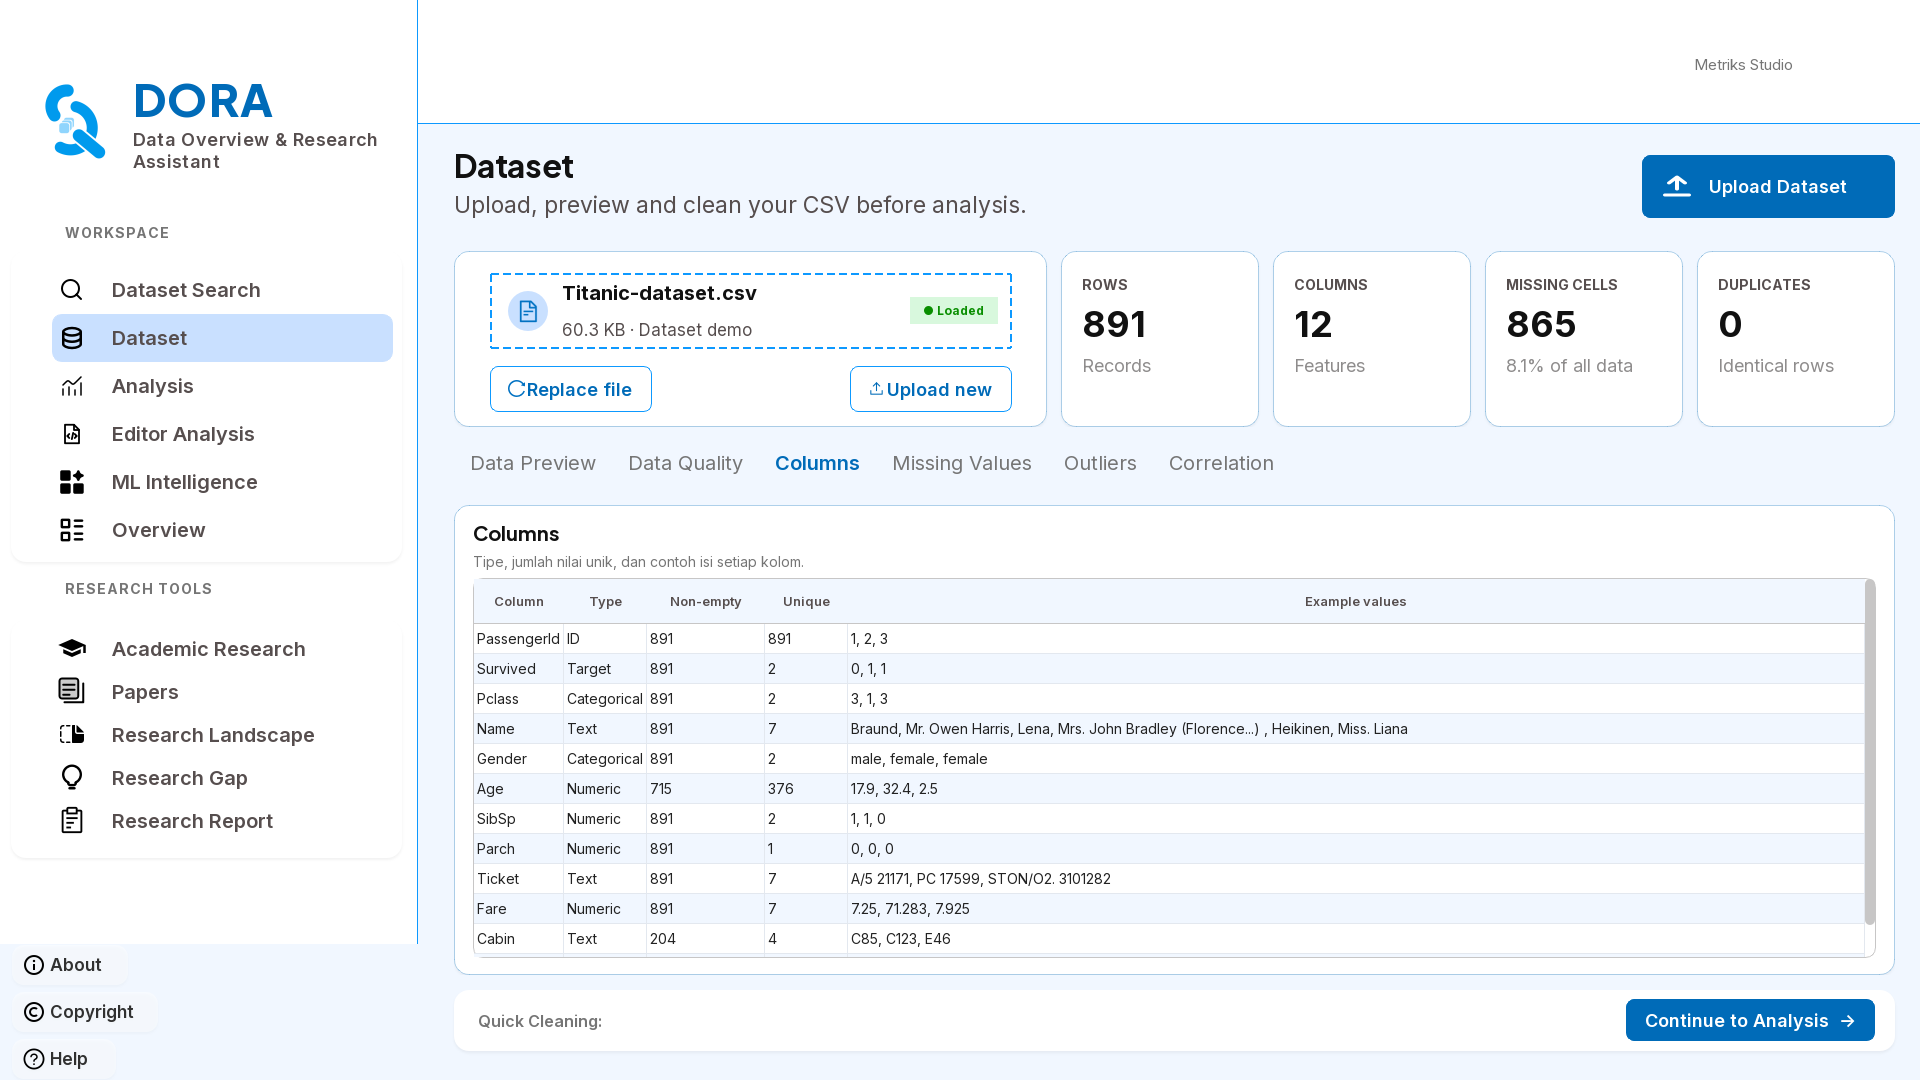
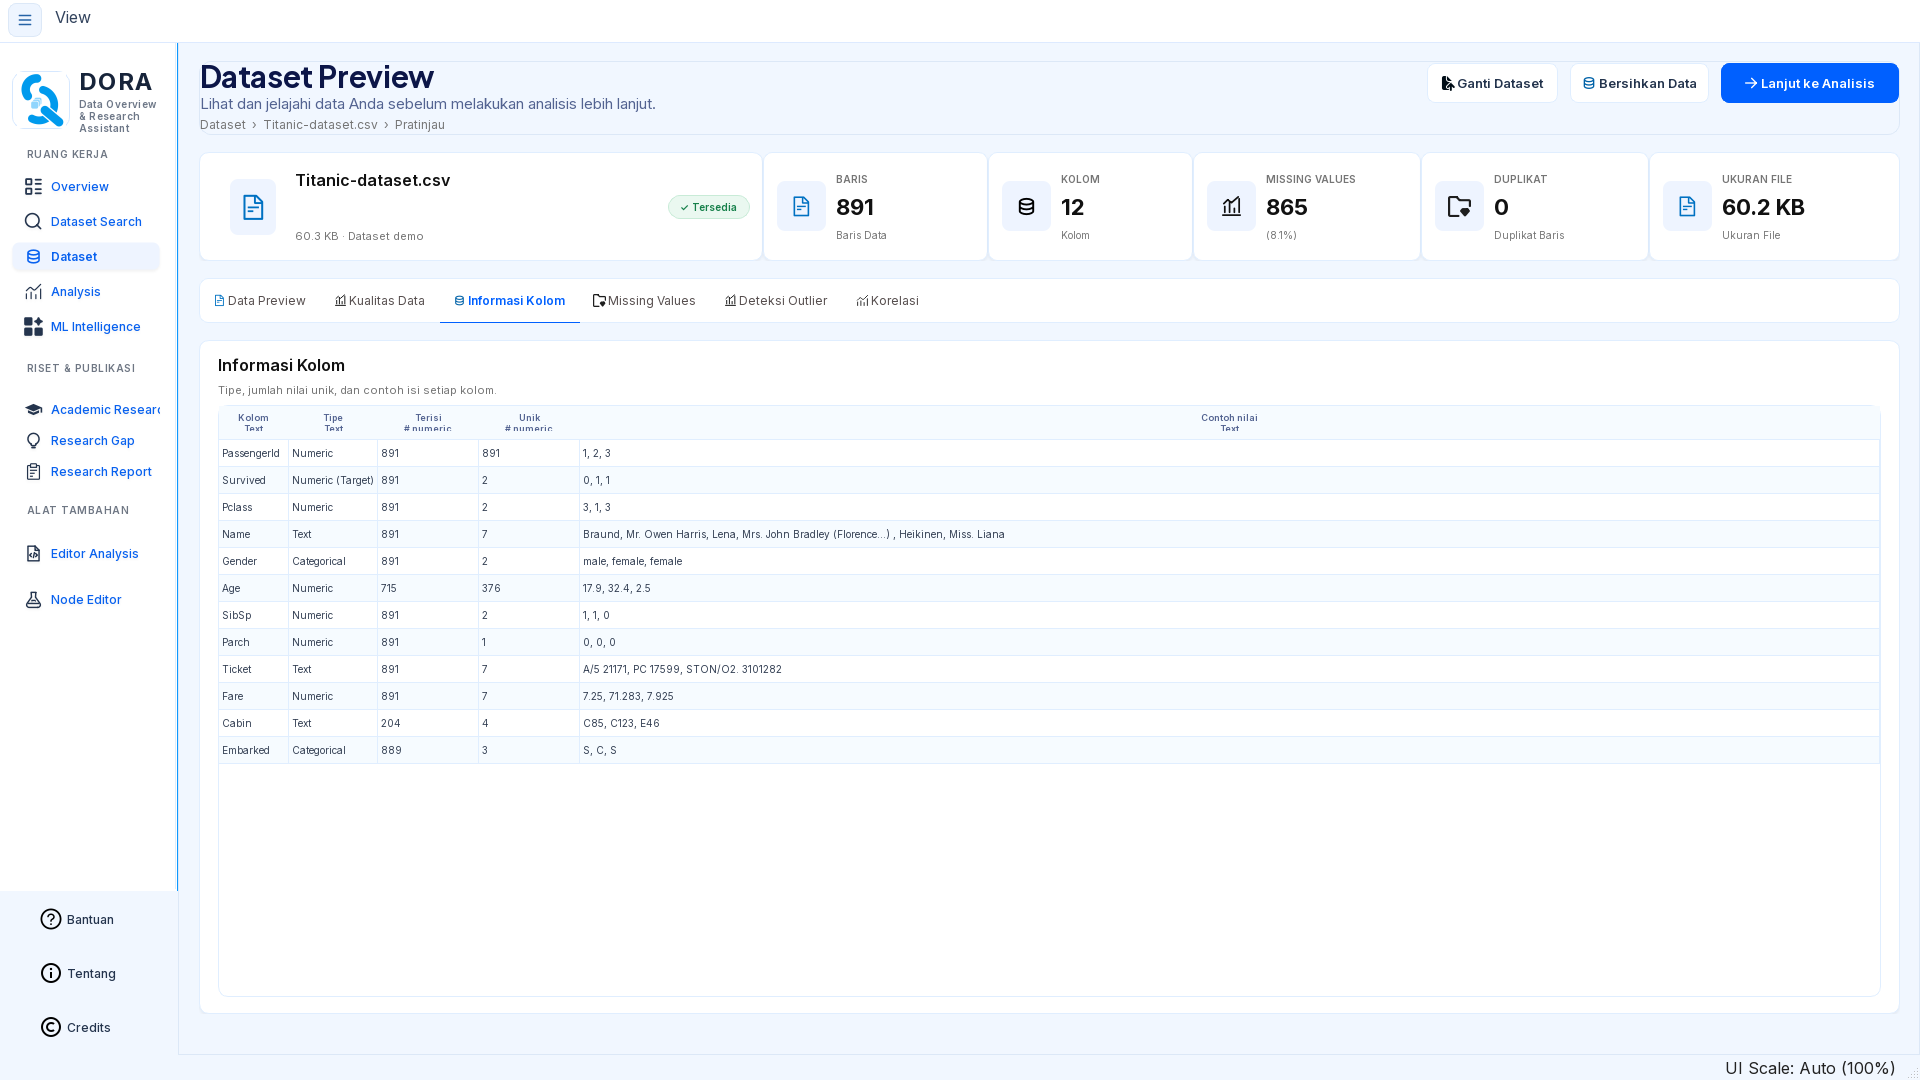
feat(screenshots): update all 21 screenshot assets captured directly from live DORA v6.0.0 desktop app

diff --git a/src/config/product.config.ts b/src/config/product.config.ts
@@ -211,16 +211,32 @@ export const productConfig: ProductConfig = {
       id: 'preview-overview',
       title: 'Overview & Pipeline Workspace (v6.0)',
       caption:
-        'Dashboard ringkasan v6.0.0 dengan tata letak dan skala tipografi yang lebih konsisten. Menampilkan temuan utama, progres 7 tahapan Research Pipeline, kartu status Dataset, skor Data Quality, dan rekomendasi ML Intelligence.',
+        'Dashboard ringkasan v6.0.0 dengan tata letak baru yang menampilkan kartu status kesiapan dataset aktif (Titanic-dataset.csv), alur 5 langkah kerja terpadu, fitur utama DORA, serta pintasan langsung ke Analisis dan ML Intelligence.',
       aspectRatio: '16/10',
       badge: 'Dashboard v6.0',
       imageSrc: '/screenshots/overview.png',
       tag: 'Overview',
       details: [
         'Tata Letak & Tipografi v6.0 Konsisten',
-        'Research Pipeline 7 Tahapan Terpadu',
-        'Ringkasan Kesiapan Data & Model ML',
-        'Pintasan Cepat ke Research Report',
+        'Status Dataset Aktif & Langkah Berikutnya',
+        'Alur Kerja 5 Tahapan Terpadu',
+        'Navigasi 16 Rute & Skala UI Otomatis',
+      ],
+    },
+    {
+      id: 'preview-dataset-search',
+      title: 'Dataset Search (Kaggle & Hugging Face)',
+      caption:
+        'Pencarian dataset publik berdasarkan kata kunci dari Kaggle, Hugging Face, atau mode gabungan All providers, dengan fitur unduh langsung ke workspace lokal DORA.',
+      aspectRatio: '16/10',
+      badge: 'Dataset Search',
+      imageSrc: '/screenshots/dataset-search.png',
+      tag: 'Search',
+      details: [
+        'Pencarian Katalog Kaggle & Hugging Face',
+        'Pilihan Filter Provider & All Providers',
+        'Unduh Langsung ke Workspace Lokal DORA',
+        'Terintegrasi dengan Alur Analisis Dataset',
       ],
     },
     {
@@ -289,11 +305,11 @@ export const productConfig: ProductConfig = {
     },
     {
       id: 'preview-editor',
-      title: 'Editor Analysis, Node Editor & Kernel PyPI',
+      title: 'Editor Analysis & Kernel PyPI (v6.0)',
       caption:
         'Ruang kerja Editor Analysis bergaya notebook dengan 6 tahapan analisis, dukungan instalasi library PyPI, manajemen kernel Python lokal yang diperkuat di v6.0.0, serta akses ke menu Node Editor di sidebar Alat Tambahan.',
       aspectRatio: '16/10',
-      badge: 'Editor & Node Tools',
+      badge: 'Editor Notebook',
       imageSrc: '/screenshots/editor-analysis.png',
       tag: 'Editor Python',
       details: [
@@ -301,6 +317,22 @@ export const productConfig: ProductConfig = {
         'Menu Alat Tambahan: Editor Analysis & Node Editor',
         'Instalasi Paket PyPI & Dukungan .ipynb',
         'Penanganan Event Qt & Kernel Diperkuat (v6.0)',
+      ],
+    },
+    {
+      id: 'preview-node-editor',
+      title: 'Visual Node Editor & ML Graph Engine (v6.0)',
+      caption:
+        'Kanvas Node Editor v6.0.0 untuk merancang alur kerja Machine Learning secara visual dengan port berwarna (data, estimator, model, metrik), deteksi task otomatis, inspektor parameter, dan tabel ringkasan metrik evaluasi.',
+      aspectRatio: '16/10',
+      badge: 'Baru di v6.0',
+      imageSrc: '/screenshots/node-editor.png',
+      tag: 'Node Editor',
+      details: [
+        'Kanvas Visual Drag-and-Drop & Port Berwarna',
+        'Deteksi Task Otomatis & Template Dinamis',
+        'Background Worker & Cache Analisis Dataset',
+        'Ekspor 5 Format (.py, .ipynb, .pkl, .csv, .zip)',
       ],
     },
     {
@@ -320,58 +352,58 @@ export const productConfig: ProductConfig = {
       ],
     },
     {
-      id: 'preview-dataset-search',
-      title: 'Dataset Search (Kaggle & Hugging Face)',
-      caption:
-        'Pencarian dataset publik berdasarkan kata kunci dari Kaggle, Hugging Face, atau mode gabungan All providers, dengan fitur unduh langsung ke workspace lokal DORA.',
-      aspectRatio: '16/10',
-      badge: 'Dataset Search',
-      imageSrc: '/screenshots/dataset-search.png',
-      tag: 'Search',
-      details: [
-        'Pencarian Katalog Kaggle & Hugging Face',
-        'Pilihan Filter Provider & All Providers',
-        'Unduh Langsung ke Workspace Lokal DORA',
-        'Terintegrasi dengan Alur Analisis Dataset',
-      ],
-    },
-    {
       id: 'preview-academic',
-      title: 'Academic Research & Verifikasi SINTA/Scopus',
+      title: 'Academic Research, Papers & SINTA/DOAJ',
       caption:
-        'Penelusuran dan perankingan paper ilmiah dari provider akademik (OpenAlex, Crossref, Semantic Scholar, Scopus) dengan pemeriksaan akreditasi nasional SINTA 1 sampai 6 serta indeks DOAJ.',
+        'Penelusuran, penyaringan, dan perankingan paper ilmiah dari provider akademik (OpenAlex, Crossref, Semantic Scholar, Scopus) dengan pemeriksaan akreditasi nasional SINTA 1 sampai 6 serta indeks DOAJ.',
       aspectRatio: '16/10',
-      badge: 'Literature Discovery',
+      badge: 'Papers & SINTA',
       imageSrc: '/screenshots/academic-research.png',
       tag: 'Literatur Ilmiah',
       details: [
         'Kueri Otomatis Berbasis Konteks Dataset',
-        'Pencarian Multi-Provider & Deduplikasi',
+        'Tabel Penyaringan Paper & Detail Artikel',
         'Pemeriksaan Akreditasi Nasional SINTA 1-6',
         'Status Indeks DOAJ & Scopus Terpisah',
       ],
     },
     {
       id: 'preview-landscape',
-      title: 'Research Landscape & Kandidat Research Gap',
+      title: 'Research Landscape & Tren Publikasi',
       caption:
-        'Pemetaan lanskap riset dari kumpulan literatur ilmiah dan identifikasi kandidat celah penelitian (Research Gap) dengan penjelasan otomatis dari engine lokal maupun Google Gemini.',
+        'Pemetaan lanskap riset dari kumpulan literatur ilmiah yang menampilkan distribusi metode algoritma dominan, venue publikasi teratas, serta tren publikasi tahunan.',
       aspectRatio: '16/10',
-      badge: 'Landscape & Gap',
+      badge: 'Research Landscape',
       imageSrc: '/screenshots/research-landscape.png',
-      tag: 'Landscape & Gap',
+      tag: 'Landscape',
       details: [
         'Pemetaan Tren Topik, Metode & Venue',
-        'Identifikasi Kandidat Celah Penelitian',
+        'Distribusi Algoritma pada Literatur Terkait',
+        'Analisis Arah Perkembangan Publikasi',
+        'Sinkronisasi Otomatis dengan Hasil Riset',
+      ],
+    },
+    {
+      id: 'preview-gap',
+      title: 'Research Gap & Penjelasan Riset',
+      caption:
+        'Identifikasi kandidat celah penelitian (Research Gap) dari literatur yang dianalisis, dilengkapi penjelasan dan saran penelitian dari engine lokal maupun Google Gemini.',
+      aspectRatio: '16/10',
+      badge: 'Research Gap',
+      imageSrc: '/screenshots/research-gap.png',
+      tag: 'Research Gap',
+      details: [
+        'Deteksi Kandidat Celah Penelitian (Gap)',
         'Penjelasan Lokal atau Ringkasan via Gemini',
-        'Sinkronisasi Otomatis saat Insights Siap',
+        'Bukti Ringkas dari Literatur yang Dianalisis',
+        'Panduan Validasi Topik & Kebaruan Riset',
       ],
     },
     {
       id: 'preview-report',
-      title: 'Research Report & Ekspor Dokumen PDF',
+      title: 'Laporan Penelitian & Ekspor PDF',
       caption:
-        'Penyusunan pratinjau laporan gabungan yang merangkum profil dataset, kualitas data, eksperimen ML, literatur, landscape, dan research gap dalam format dokumen A4 siap ekspor ke PDF.',
+        'Penyusunan pratinjau laporan gabungan yang merangkum profil dataset, visualisasi hasil analisis, evaluasi ML, dan tinjauan literatur dalam format dokumen A4 siap ekspor ke PDF.',
       aspectRatio: '16/10',
       badge: 'Ekspor PDF',
       imageSrc: '/screenshots/research-report.png',
@@ -385,18 +417,18 @@ export const productConfig: ProductConfig = {
     },
     {
       id: 'preview-about',
-      title: 'Halaman Tentang, Tim & Informasi Privasi',
+      title: 'Tentang DORA & Privasi Keamanan (v6.0)',
       caption:
-        'Halaman informasi aplikasi DORA dan tim Metriks Studio yang pada rilis v6.0.0 dilengkapi bagian Informasi Privasi untuk menjelaskan pemrosesan lokal, pencarian online, penggunaan Gemini, telemetry opsional, dan pengelolaan API key.',
+        'Halaman informasi aplikasi DORA yang pada rilis v6.0.0 dilengkapi bagian Privasi & Keamanan untuk menjelaskan pemrosesan dataset lokal, pencarian online, penjelasan Gemini, telemetry opsional, alamat IP, dan kunci API lokal.',
       aspectRatio: '16/10',
       badge: 'Tentang & Privasi v6.0',
       imageSrc: '/screenshots/about.png',
       tag: 'Tentang & Privasi',
       details: [
-        'Profil Aplikasi DORA & Tim Metriks Studio',
-        'Ringkasan Transparansi Pemrosesan Lokal vs Online',
-        'Penjelasan Penggunaan Gemini & Telemetry Opsional',
-        'Informasi Visibilitas IP & Penyimpanan API Key',
+        'Ringkasan Ruang Kerja DORA Terpadu',
+        'Transparansi Analisis Lokal vs Koneksi Online',
+        'Penjelasan Privasi Gemini & Telemetry Opsional',
+        'Informasi Visibilitas IP & Kunci API Lokal',
       ],
     },
   ],

diff --git a/src/components/sections/Preview/Preview.tsx b/src/components/sections/Preview/Preview.tsx
@@ -32,10 +32,14 @@ export const Preview: React.FC<PreviewProps> = ({ previews }) => {
   }, [modalOpen]);
 
   const getCategoryForPreview = (idx: number) => {
-    if (idx <= 3) return 'data';
-    if (idx <= 7) return 'modeling';
+    if (idx <= 4) return 'data';
+    if (idx <= 8) return 'modeling';
     return 'academic';
   };
+
+  const dataCount = previews.filter((_, idx) => getCategoryForPreview(idx) === 'data').length;
+  const modelingCount = previews.filter((_, idx) => getCategoryForPreview(idx) === 'modeling').length;
+  const academicCount = previews.filter((_, idx) => getCategoryForPreview(idx) === 'academic').length;
 
   const filteredPreviews = previews
     .map((p, originalIdx) => ({ ...p, originalIdx }))
@@ -61,6 +65,7 @@ export const Preview: React.FC<PreviewProps> = ({ previews }) => {
     if (tag.includes('loader') || tag.includes('dataset')) return <Database size={16} />;
     if (tag.includes('quality') || tag.includes('missing')) return <Sliders size={16} />;
     if (tag.includes('search')) return <Search size={16} />;
+    if (tag.includes('node')) return <Cpu size={16} />;
     if (tag.includes('editor')) return <Terminal size={16} />;
     if (tag.includes('ml')) return <Cpu size={16} />;
     if (tag.includes('literatur') || tag.includes('paper')) return <BookOpen size={16} />;
@@ -97,8 +102,8 @@ export const Preview: React.FC<PreviewProps> = ({ previews }) => {
           </div>
           <h2 className="section-title">Antarmuka Desktop DORA v6.0.0 yang Konsisten & Responsif</h2>
           <p className="section-subtitle">
-            Jelajahi tangkapan layar asli DORA (Data Overview & Research Assistant v6.0.0) berbasis PySide6 dengan
-            navigasi sidebar 16 rute yang seragam, menu Node Editor, analisis sidik jari SHA-256, hingga halaman Tentang & Privasi.
+            Jelajahi tangkapan layar asli yang diambil langsung dari aplikasi DORA (Data Overview & Research Assistant v6.0.0)
+            dengan navigasi sidebar 16 rute yang seragam, Visual Node Editor, analisis SHA-256, hingga halaman Tentang & Privasi.
           </p>
         </div>
 
@@ -117,7 +122,7 @@ export const Preview: React.FC<PreviewProps> = ({ previews }) => {
             onClick={() => handleCategorySelect('data')}
           >
             <Database size={14} />
-            <span>Data & Kualitas (4)</span>
+            <span>Data & Kualitas ({dataCount})</span>
           </button>
           <button
             type="button"
@@ -125,7 +130,7 @@ export const Preview: React.FC<PreviewProps> = ({ previews }) => {
             onClick={() => handleCategorySelect('modeling')}
           >
             <Cpu size={14} />
-            <span>Analisis, Node & ML (4)</span>
+            <span>Analisis, Node & ML ({modelingCount})</span>
           </button>
           <button
             type="button"
@@ -133,7 +138,7 @@ export const Preview: React.FC<PreviewProps> = ({ previews }) => {
             onClick={() => handleCategorySelect('academic')}
           >
             <BookOpen size={14} />
-            <span>Literatur, Laporan & Info (4)</span>
+            <span>Literatur, Laporan & Info ({academicCount})</span>
           </button>
         </div>
 
